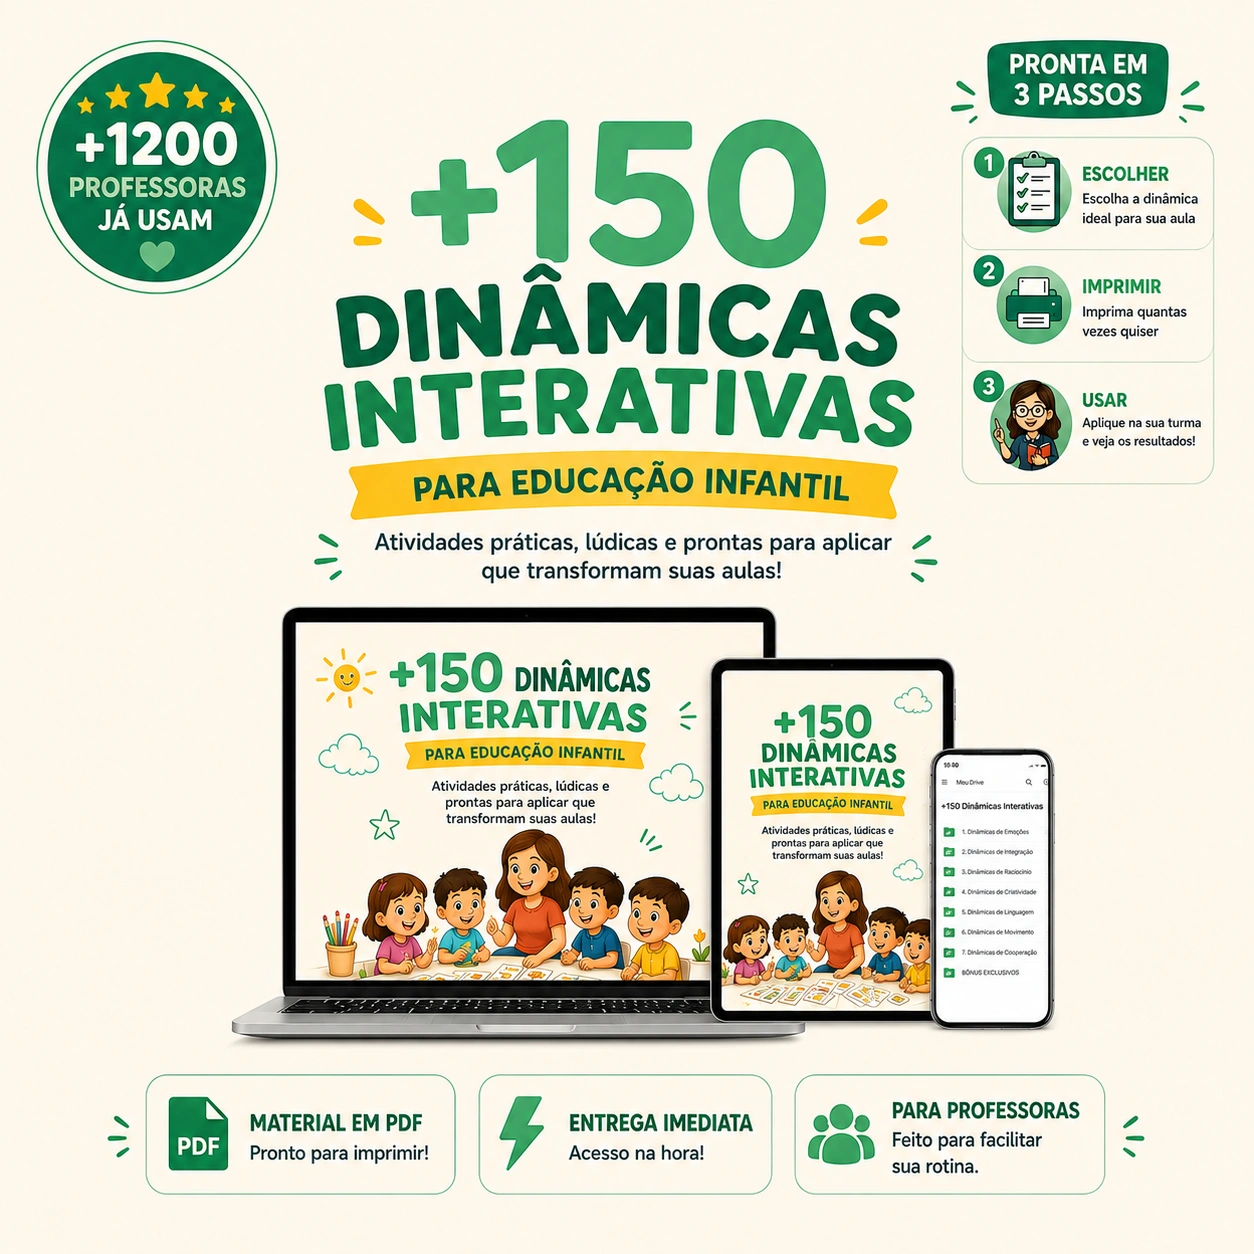
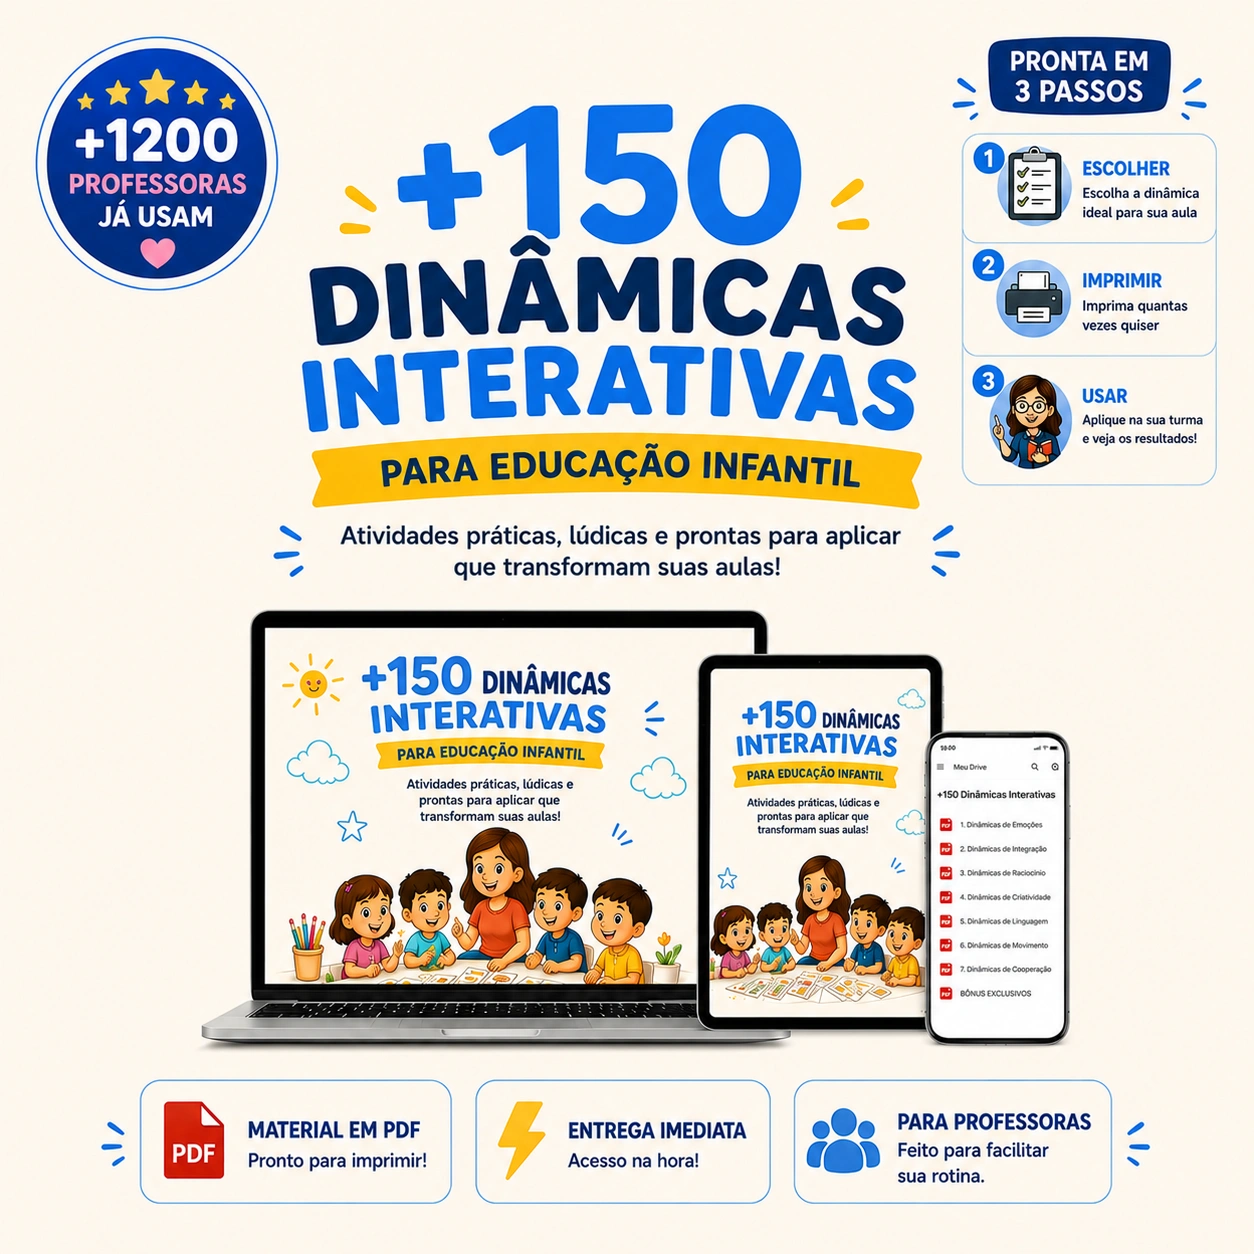
mudado para azul

diff --git a/index.html b/index.html
@@ -103,7 +103,7 @@ src="https://www.facebook.com/tr?id=1735030811061246&ev=PageView&noscript=1"
     font-weight:800;color:var(--ink);
     max-width:760px;margin:18px auto 0;
   }
-  .hero h1 .titulo-verde{color:var(--green);}
+  .hero h1 .titulo-destaque{color:#1670E8;}
   .nowrap-fim{white-space:nowrap;}
   .hero .sub{
     max-width:560px;margin:16px auto 0;
@@ -466,7 +466,7 @@ src="https://www.facebook.com/tr?id=1735030811061246&ev=PageView&noscript=1"
 <!-- ===== HERO ===== -->
 <header class="hero wrap">
   <span class="eyebrow">📚 Feito para professoras da educação infantil</span>
-  <h1>São <span class="titulo-verde">+150 DINÂMICAS INTERATIVAS</span> <span class="nowrap-fim">para sua turma</span></h1>
+  <h1>São <span class="titulo-destaque">+150 DINÂMICAS INTERATIVAS</span> <span class="nowrap-fim">para sua turma</span></h1>
   <p class="sub">Pare de perder tempo pensando em atividade nova, organizadas por objetivo, pra você abrir e aplicar na hora, sem gastar sua noite planejando aula.</p>
 
   <div class="cover-image-wrapper">
